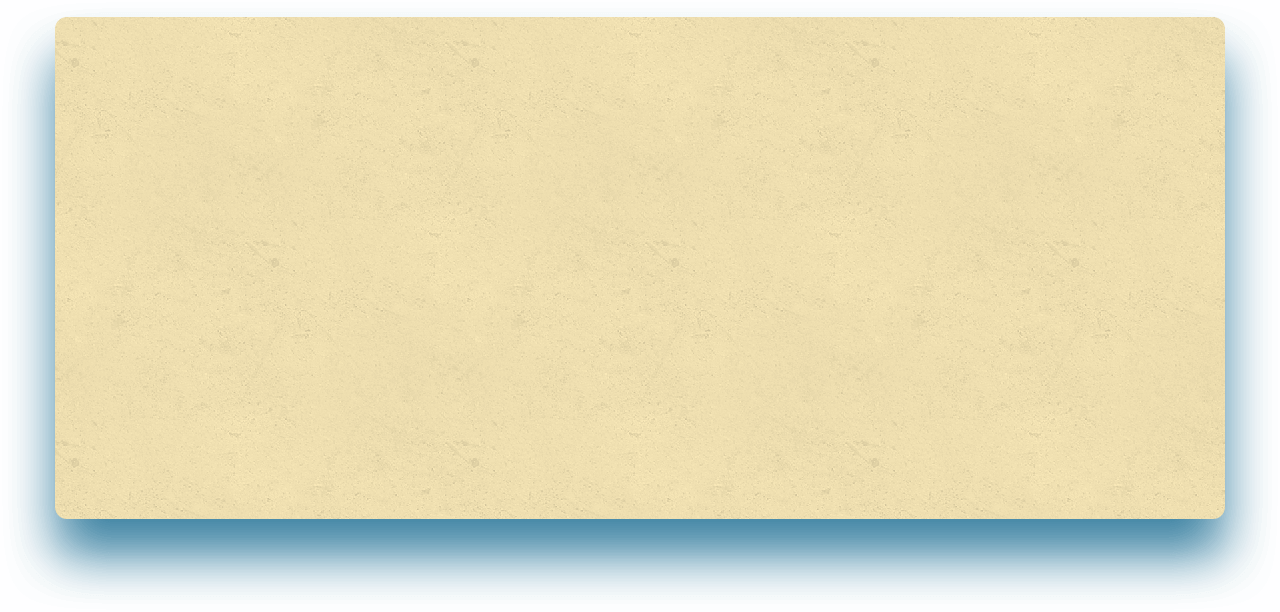
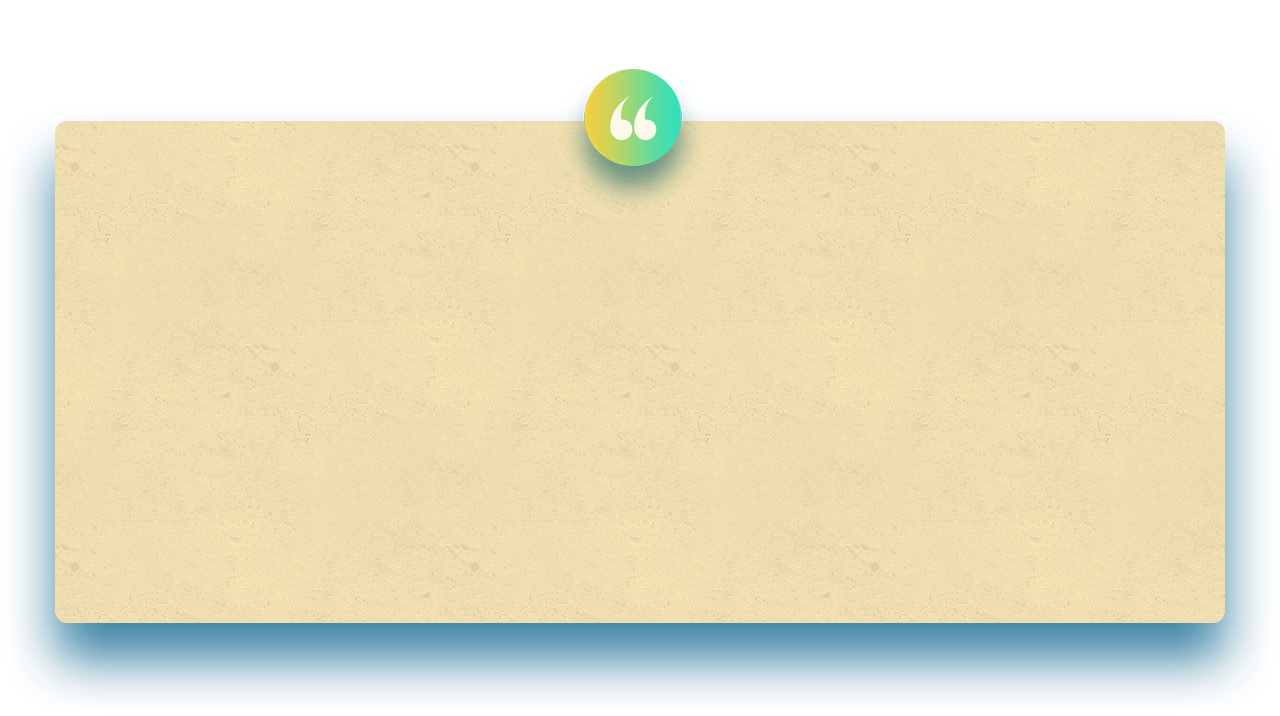
section feedback and section apply done

Changed region(s): [[0.0, 0.0, 1.0, 0.2794], [0.0312, 0.8382, 0.9688, 0.9314]]

diff --git a/src/index.html b/src/index.html
@@ -259,7 +259,7 @@
               <div class="form-message">
                 <textarea id="input-message" type="text" class="form-control"  name="Message" rows="4" cols="50" placeholder="Additional Information / Inquiries"></textarea>
               </div>
-                <button type="submit" class="btn">
+                <button type="submit" class="btn-submit">
                   <p class="heading">Submit</p>
                 </button>
               </form>
@@ -298,6 +298,99 @@
           <span class="bg-pup">
             <img class="pup" src="../assets/images/dog.png" alt="awardee">
           </span>
+        </div>
+      </div>
+    </div>
+    <div class="section-feedback">
+      <div class="container">
+        <div class="swiper-feedback">
+          <div class="swiper-container">
+            <div class="swiper-wrapper">
+              <div class="swiper-slide">
+                <h1 class="title">"Absolutely Brilliant!"</h1>
+                <p class="description">
+                  “Aenean eget ultrices enim. Sum sociis 
+                  natoque penatibus et magnis dis parturient 
+                  montes, nascetur ridiculus mus. Aliquam at 
+                  sem sit amet eros placerat sagittis. Sed 
+                  sagittis enim ligula, sit amet rhoncus odio 
+                  eleifend dapibus. In a mattis massa. Nulla 
+                  nec mi libero. Aliquam ultrices est id mattis 
+                  pulvinar. Interdum et malesuada fames ac 
+                  ante ipsum primis in faucibus. ”
+                </p>
+                <img class="profile-icon" src="../assets/images/Ellipse 4.png" alt="icon">
+                <h2 class="name">Stella P.</h2>
+                <p class="type">Customer</p>
+              </div>
+              <div class="swiper-slide">
+                <h1 class="title">"Absolutely Brilliant!"</h1>
+                <p class="description">
+                  “Aenean eget ultrices enim. Sum sociis 
+                  natoque penatibus et magnis dis parturient 
+                  montes, nascetur ridiculus mus. Aliquam at 
+                  sem sit amet eros placerat sagittis. Sed 
+                  sagittis enim ligula, sit amet rhoncus odio 
+                  eleifend dapibus. In a mattis massa. Nulla 
+                  nec mi libero. Aliquam ultrices est id mattis 
+                  pulvinar. Interdum et malesuada fames ac 
+                  ante ipsum primis in faucibus. ”
+                </p>
+                <img class="profile-icon" src="../assets/images/Ellipse 4.png" alt="icon">
+                <h2 class="name">Stella P.</h2>
+                <p class="type">Customer</p>
+              </div>
+              <div class="swiper-slide">
+                <h1 class="title">"Absolutely Brilliant!"</h1>
+                <p class="description">
+                  “Aenean eget ultrices enim. Sum sociis 
+                  natoque penatibus et magnis dis parturient 
+                  montes, nascetur ridiculus mus. Aliquam at 
+                  sem sit amet eros placerat sagittis. Sed 
+                  sagittis enim ligula, sit amet rhoncus odio 
+                  eleifend dapibus. In a mattis massa. Nulla 
+                  nec mi libero. Aliquam ultrices est id mattis 
+                  pulvinar. Interdum et malesuada fames ac 
+                  ante ipsum primis in faucibus. ”
+                </p>
+                <img class="profile-icon" src="../assets/images/Ellipse 4.png" alt="icon">
+                <h2 class="name">Stella P.</h2>
+                <p class="type">Customer</p>
+              </div>
+              <div class="swiper-slide">
+                <h1 class="title">"Absolutely Brilliant!"</h1>
+                <p class="description">
+                  “Aenean eget ultrices enim. Sum sociis 
+                  natoque penatibus et magnis dis parturient 
+                  montes, nascetur ridiculus mus. Aliquam at 
+                  sem sit amet eros placerat sagittis. Sed 
+                  sagittis enim ligula, sit amet rhoncus odio 
+                  eleifend dapibus. In a mattis massa. Nulla 
+                  nec mi libero. Aliquam ultrices est id mattis 
+                  pulvinar. Interdum et malesuada fames ac 
+                  ante ipsum primis in faucibus. ”
+                </p>
+                <img class="profile-icon" src="../assets/images/Ellipse 4.png" alt="icon">
+                <h2 class="name">Stella P.</h2>
+                <p class="type">Customer</p>
+              </div>
+            </div>
+            <div class="swiper-pagination"></div>
+          </div>
+        </div>
+      </div>
+    </div>
+    <div class="section-apply">
+      <div class="container">
+        <div class="button-text-holder">
+          <h1 class="title">Come Be Part of the Family!</h1>
+          <p class="description">Aliquam ultrices est id mattis pulvinar. 
+            Interdum et malesuada fames ac ante ipsum primis in faucibus. 
+            Fusce consequat sollicitudin arcu molestie sollicitudin. 
+            In hac habitasse platea dictumst.</p>
+          <button type="button" class="btn">
+            <a href="#" class="btn-title">Apply Now!</a>
+          </button>
         </div>
       </div>
     </div>

diff --git a/src/styles/pages/_home.scss b/src/styles/pages/_home.scss
@@ -164,7 +164,7 @@ html {
 
     .retriever {
       position: absolute;
-      top: 56.9%;
+      top: 53%;
       right: 4%;
       bottom: 0;
       
@@ -174,7 +174,7 @@ html {
     .shadow {
       position: relative;
       right: 12.8%;
-      top: 9px;
+      top: 5px;
     }
   }
   
@@ -414,23 +414,6 @@ html {
       color: $white !important;
     }
 
-    .btn {
-      padding: 6px 0;
-      margin: 3% 26.8%;
-
-      background-color: $pale-green;
-      border: 2px solid transparent;
-
-      &:hover {
-        background-color: $white;
-        border: 2px solid $pale-green;
-
-        .heading {
-          color: $pale-green;
-        }
-      }
-    }
-
     .heading {
       padding: 10px 0;
       margin-bottom: 0;
@@ -453,7 +436,7 @@ html {
   }
 
   .section-dog-month {
-    padding: 3% 0 3%;
+    padding: 3% 0 2%;
 
     background-image: url("../assets/images/Layer 43.png");
     background-repeat: no-repeat;
@@ -517,6 +500,89 @@ html {
       font-family: $font-opensans-semibold;
       font-size: 30px;
       color: $white;
+    }
+  }
+
+  .section-feedback {
+    padding: 3% 0 5%;
+
+    background-image: url("../assets/images/Rectangle 10.png");
+    background-repeat: no-repeat;
+
+
+    .swiper-slide {
+      display: flex;
+      flex-direction: column;
+      align-items: center;
+
+      background-image: url("../assets/images/Rounded Rectangle 5.png");
+      background-position: center;
+      background-repeat: no-repeat;
+      background-size: cover;
+    }
+
+    .title {
+      margin-top: 17%;
+      margin-bottom: 2%;
+
+      font-family: $font-opensans-bold;
+      font-size: 35px;
+      color: $mid-blue;
+    }
+
+    .description {
+      margin: 0 0 20px;
+      width: 85%;
+      
+      font-family: $font-opensans-regular;
+      font-size: 14px;
+      color: $mid-blue;
+      line-height: 1.6;
+      text-align: center;
+    }
+
+    .profile-icon {
+      margin: 18px 0 0;
+      width: 8%;
+    }
+
+    .name {
+      margin: 10px 0 10px;
+
+      font-family: $font-opensans-semibold;
+      font-size: 25px;
+      color: $mid-blue;
+    }
+
+    .type {
+      margin-bottom: 10%;
+
+      font-family: $font-opensans-semibold;
+      font-size: 14px;
+      color: $mid-blue;
+    }
+  }
+
+  .section-apply {
+    padding: 2% 0 2%;
+    
+    background-image: url("../assets/images/Layer 34.png");
+    background-repeat: no-repeat;
+    background-position: bottom;
+    background-size: cover;
+
+    .title {
+      font-family: $font-opensans-semibold;
+      font-size: 40px;
+      color: $white;
+      text-align: center;
+    }
+
+    .description {
+      font-family: $font-opensans-regular;
+      font-size: 16px;
+      color: $white;
+      text-align: center;
     }
   }
 }

diff --git a/src/scripts/modules/theme-module.js b/src/scripts/modules/theme-module.js
@@ -8,10 +8,21 @@ AppName.Modules.ThemeModule = (function () {
   const _privateMethod = () => {
     // private stuff
 
-    const swiper = new Swiper('.swiper-container', {
+    const swiperBanner = new Swiper('.swiper-arrow-holder', '.swiper-container', {
       navigation: {
         nextEl: ".swiper-button-next",
         prevEl: ".swiper-button-prev",
+      },
+    });
+  };
+
+  const _feedbackPagination = () => {
+    // private stuff
+
+    const swiperFeedback = new Swiper('swiper-feedback', '.swiper-container', {
+      pagination: {
+        el: '.swiper-pagination',
+        clickable: true,
       },
     });
   };
@@ -48,6 +59,7 @@ AppName.Modules.ThemeModule = (function () {
     _privateMethod();
     _headerScroll();
     _pawbarScroll();
+    _feedbackPagination();
   };
 
   return {

diff --git a/src/styles/components/_buttons.scss b/src/styles/components/_buttons.scss
@@ -6,7 +6,7 @@
 
     .btn {
         padding: 14px 0;
-        margin: 0 40%;
+        margin: 0 38%;
 
         background-color: $orange;
         border: 2px solid transparent;
@@ -31,3 +31,22 @@
         color: $white;
         text-decoration: none;
     }
+
+    
+    .btn-submit {
+        padding: 6px 0;
+        margin: 3% 26.8%;
+  
+        background-color: $pale-green;
+        border: 2px solid transparent;
+        border-radius: 10px;
+  
+        &:hover {
+          background-color: $white;
+          border: 2px solid $pale-green;
+  
+          .heading {
+            color: $pale-green;
+          }
+        }
+      }

diff --git a/src/styles/layout/_header.scss b/src/styles/layout/_header.scss
@@ -21,7 +21,7 @@
     }
     
     .navbar {
-        padding: 40px 0 30px;
+        padding: 15px 0 15px
     }
 
     .nav-item {
